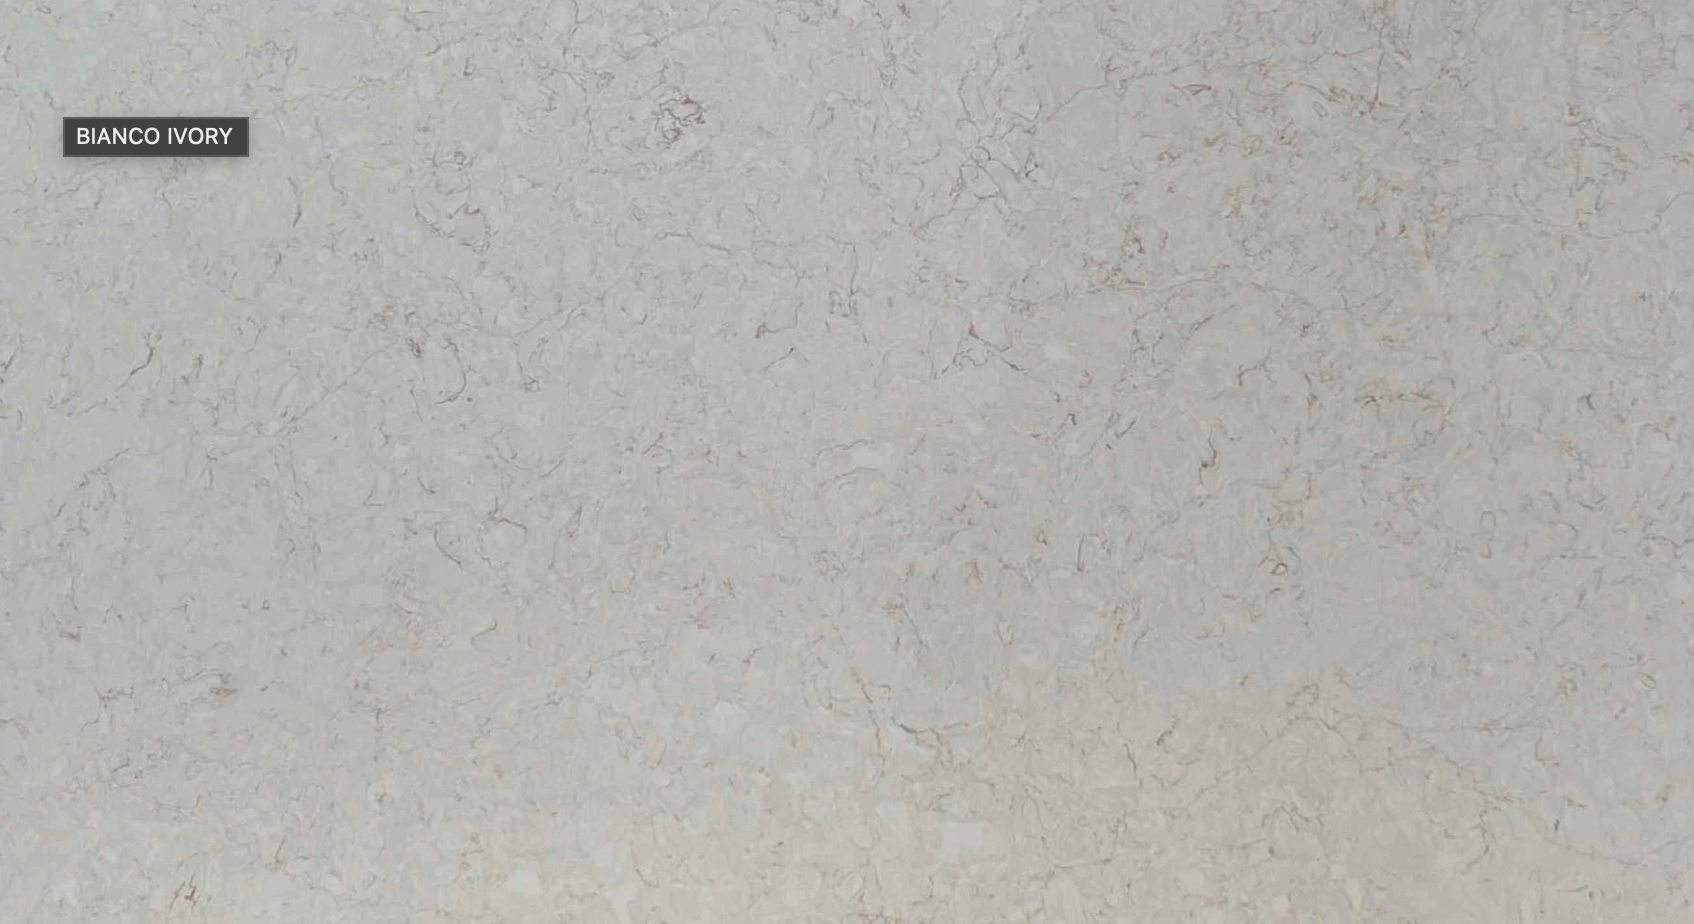
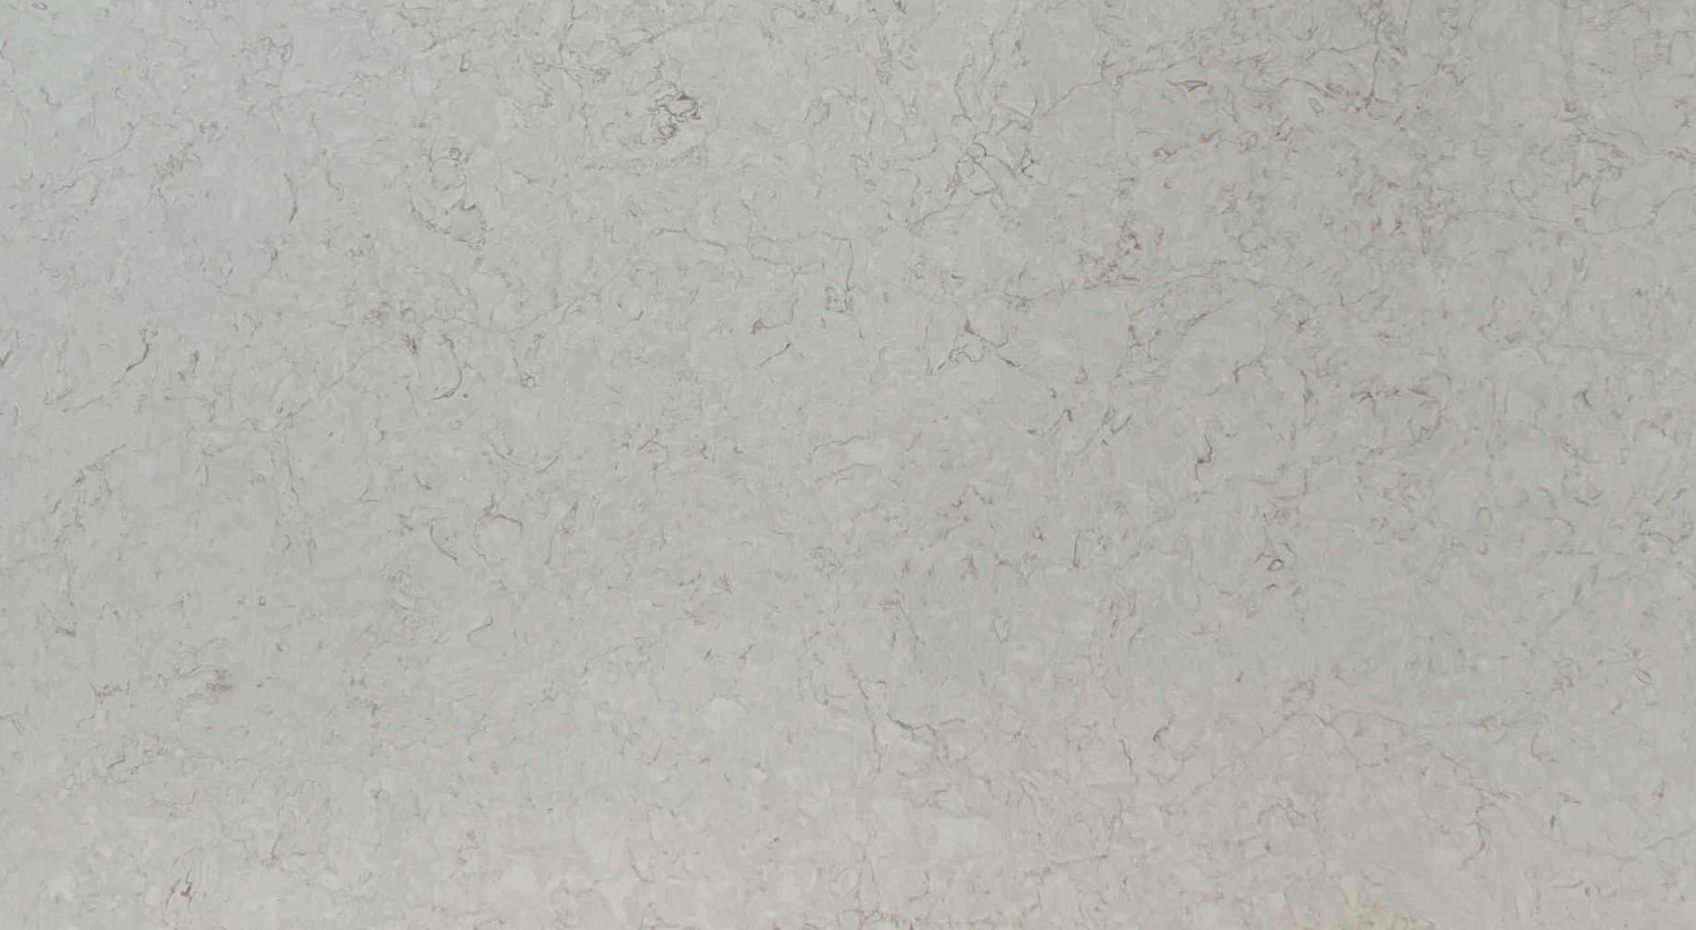
feat(contractor-portal): ship vetted promo updates
add havenlove55@gmail.com to vetted access and promo recipients

embed hosted material images in promo email

normalize contractor session role behavior

align sender/link defaults and refresh docs/tests

diff --git a/frontend/tests/contractor-portal.test.js b/frontend/tests/contractor-portal.test.js
@@ -27,6 +27,7 @@ describe('contractor access wiring', () => {
         ]);
         expect(STATIC_APPROVED_EMAILS).toEqual([
             'fchomesolutions513@gmail.com',
+            'havenlove55@gmail.com',
         ]);
 
         expect(getEmailAccess('sales@urbanstone.co')).toMatchObject({ isAdmin: true, isApproved: true });
@@ -56,7 +57,7 @@ describe('contractor portal runtime config', () => {
         process.env = originalEnv;
     });
 
-    it('defaults contractor sender to the send subdomain', () => {
+    it('defaults contractor sender to a reply-capable urbanstone inbox', () => {
         process.env = { ...originalEnv };
         delete process.env.CONTRACTOR_EMAIL_FROM;
 
@@ -66,30 +67,30 @@ describe('contractor portal runtime config', () => {
     it('allows contractor sender override from env', () => {
         process.env = {
             ...originalEnv,
-            CONTRACTOR_EMAIL_FROM: 'Urban Stone <portal@send.urbanstone.co>',
+            CONTRACTOR_EMAIL_FROM: 'Urban Stone <portal@urbanstone.co>',
         };
 
-        expect(getContractorEmailFrom()).toBe('Urban Stone <portal@send.urbanstone.co>');
+        expect(getContractorEmailFrom()).toBe('Urban Stone <portal@urbanstone.co>');
     });
 
     it('prefers forwarded request host for magic-link URLs', () => {
         const req = {
             headers: {
                 'x-forwarded-proto': 'https',
-                'x-forwarded-host': 'www.urbanstone.co',
+                'x-forwarded-host': 'urbanstone.co',
             },
         };
 
-        expect(getContractorPortalBaseUrl(req)).toBe('https://www.urbanstone.co');
+        expect(getContractorPortalBaseUrl(req)).toBe('https://urbanstone.co');
     });
 
     it('falls back to NEXT_PUBLIC_SITE_URL and trims trailing slashes', () => {
         process.env = {
             ...originalEnv,
-            NEXT_PUBLIC_SITE_URL: 'https://www.urbanstone.co/',
+            NEXT_PUBLIC_SITE_URL: 'https://urbanstone.co/',
         };
 
-        expect(getContractorPortalBaseUrl({ headers: {} })).toBe('https://www.urbanstone.co');
+        expect(getContractorPortalBaseUrl({ headers: {} })).toBe('https://urbanstone.co');
     });
 
     it('uses the hard fallback when no runtime URL is available', () => {

diff --git a/frontend/pages/api/contractor/verify.js b/frontend/pages/api/contractor/verify.js
@@ -1,6 +1,5 @@
 import crypto from 'crypto';
 import { getSupabase } from '../../../lib/supabase';
-import { getEmailAccess } from '../../../lib/contractor-access';
 
 const COOKIE_NAME = 'contractor_session';
 const COOKIE_MAX_AGE = 7 * 24 * 60 * 60; // 7 days in seconds
@@ -49,11 +48,10 @@ export default async function handler(req, res) {
         .single();
 
     const contractorEmail = contractor?.email || '';
-    const emailAccess = getEmailAccess(contractorEmail);
     const sessionValue = signPayload({
         sub: link.contractor_id,
         email: contractorEmail,
-        role: emailAccess.isAdmin ? 'admin' : 'contractor',
+        role: 'contractor',
         iat: Date.now(),
     }, secret);
 

diff --git a/frontend/pages/api/contractor/request-link.js b/frontend/pages/api/contractor/request-link.js
@@ -51,7 +51,7 @@ export default async function handler(req, res) {
                 .from('contractors')
                 .insert({
                     email: normalizedEmail,
-                    company_name: emailAccess.isAdmin ? 'Urban Stone Admin' : 'Vetted Contractor',
+                    company_name: 'Approved Contractor',
                     website: 'https://urbanstone.co',
                     approved: true,
                 })

diff --git a/frontend/lib/contractor-portal.js b/frontend/lib/contractor-portal.js
@@ -1,5 +1,5 @@
-export const DEFAULT_CONTRACTOR_EMAIL_FROM = 'Urban Stone <no-reply@send.urbanstone.co>';
-export const DEFAULT_CONTRACTOR_PORTAL_BASE_URL = 'https://www.urbanstone.co';
+export const DEFAULT_CONTRACTOR_EMAIL_FROM = 'Urban Stone <sales@urbanstone.co>';
+export const DEFAULT_CONTRACTOR_PORTAL_BASE_URL = 'https://urbanstone.co';
 
 function normalizeBaseUrl(value) {
     return String(value || '').trim().replace(/\/$/, '');

diff --git a/frontend/lib/contractor-access.js b/frontend/lib/contractor-access.js
@@ -51,6 +51,7 @@ export const STATIC_ADMIN_EMAILS = [
 
 export const STATIC_APPROVED_EMAILS = [
     'fchomesolutions513@gmail.com',
+    'havenlove55@gmail.com',
 ];
 
 function parseEmailList(value) {

diff --git a/CUTOVER_RUNBOOK_URBANSTONE_TO_VERCEL.md b/CUTOVER_RUNBOOK_URBANSTONE_TO_VERCEL.md
@@ -32,6 +32,7 @@ This runbook replaces the live Amazon Granite Vercel deployment with the upgrade
 - CONTRACTOR_SESSION_SECRET
 - RESEND_API_KEY
 - CONTRACTOR_EMAIL_FROM (optional; defaults to `Urban Stone <no-reply@send.urbanstone.co>`)
+- CONTRACTOR_EMAIL_FROM (optional; defaults to `Urban Stone <sales@urbanstone.co>`)
 - CONTRACTOR_ADMIN_EMAILS (optional; comma-separated runtime override)
 - CONTRACTOR_APPROVED_EMAILS (optional; comma-separated runtime override)
 
@@ -90,6 +91,9 @@ Rollback immediately if any of the following occurs for more than 5 minutes:
 - Contractor magic-link emails require RESEND_API_KEY and a verified sender domain in Resend.
   The default sender uses the `send.urbanstone.co` subdomain — verify this subdomain in the Resend
   dashboard before go-live, or override via CONTRACTOR_EMAIL_FROM.
+- Contractor magic-link emails require RESEND_API_KEY. The verified Resend domain is `urbanstone.co`
+  and the default sender is `sales@urbanstone.co` — no additional DNS setup needed.
+  Override via CONTRACTOR_EMAIL_FROM if needed.
 - NEXT_PUBLIC_SITE_URL must be the production origin (e.g. `https://www.urbanstone.co`). This
   variable is embedded at build time for metadata but the contractor magic-link URL is resolved from
   request headers at runtime, so a stale build value will not break email links.

diff --git a/frontend/README.md b/frontend/README.md
@@ -49,7 +49,7 @@ Recommended local run command (avoids port conflicts):
 - `CONTRACTOR_SESSION_SECRET`: HMAC secret used to sign the `contractor_session` cookie.
 - `CONTRACTOR_ADMIN_EMAILS`: comma-separated admin emails that bypass manual approval for portal access.
 - `CONTRACTOR_APPROVED_EMAILS`: optional comma-separated vetted contractor emails that should be auto-approved.
-- `CONTRACTOR_EMAIL_FROM`: optional sender address override for contractor emails. Defaults to `Urban Stone <no-reply@send.urbanstone.co>`.
+- `CONTRACTOR_EMAIL_FROM`: optional sender address override for contractor emails. Defaults to `Urban Stone <sales@urbanstone.co>`.
 - `RESEND_API_KEY`: required for contractor magic-link email delivery.
 
 If `LEAD_WEBHOOK_URL` is not set during local development, `/api/lead` falls back to the local route `/api/lead-dev-webhook` so form submissions still complete while you are building.
